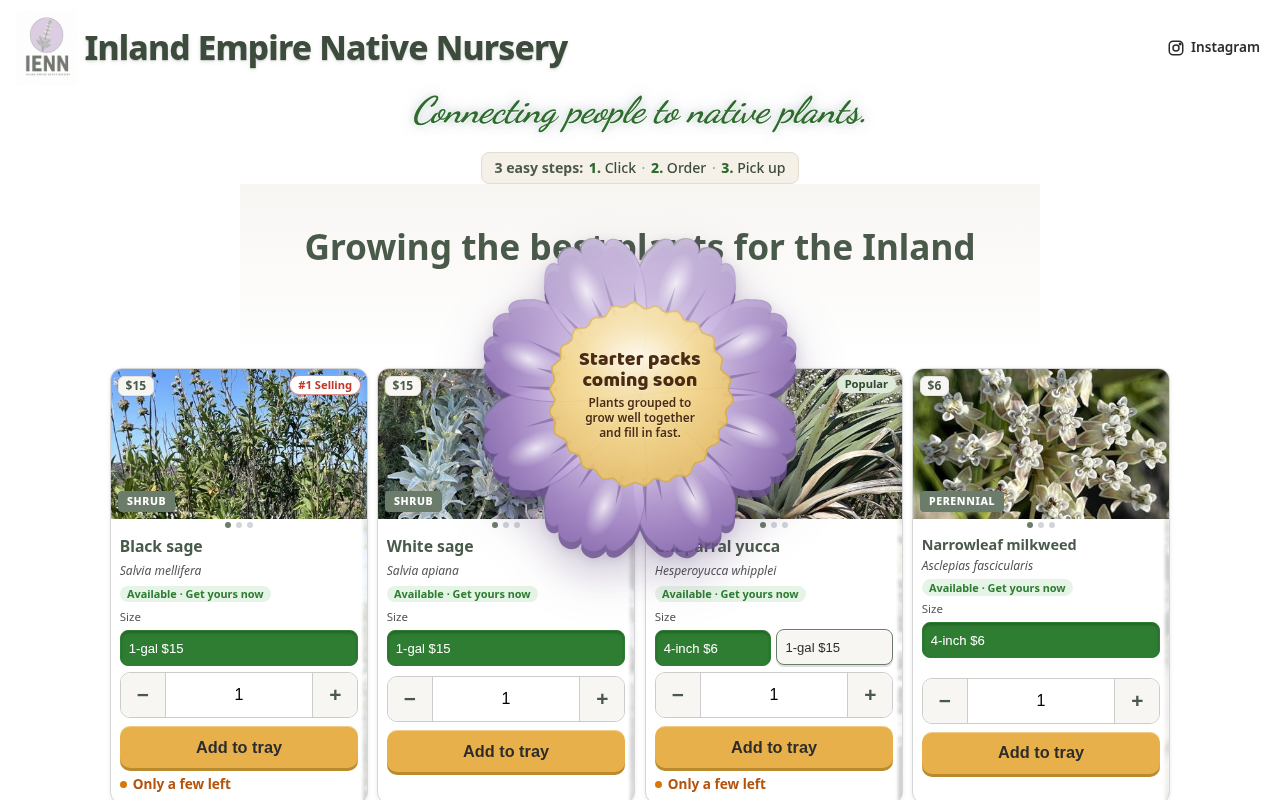
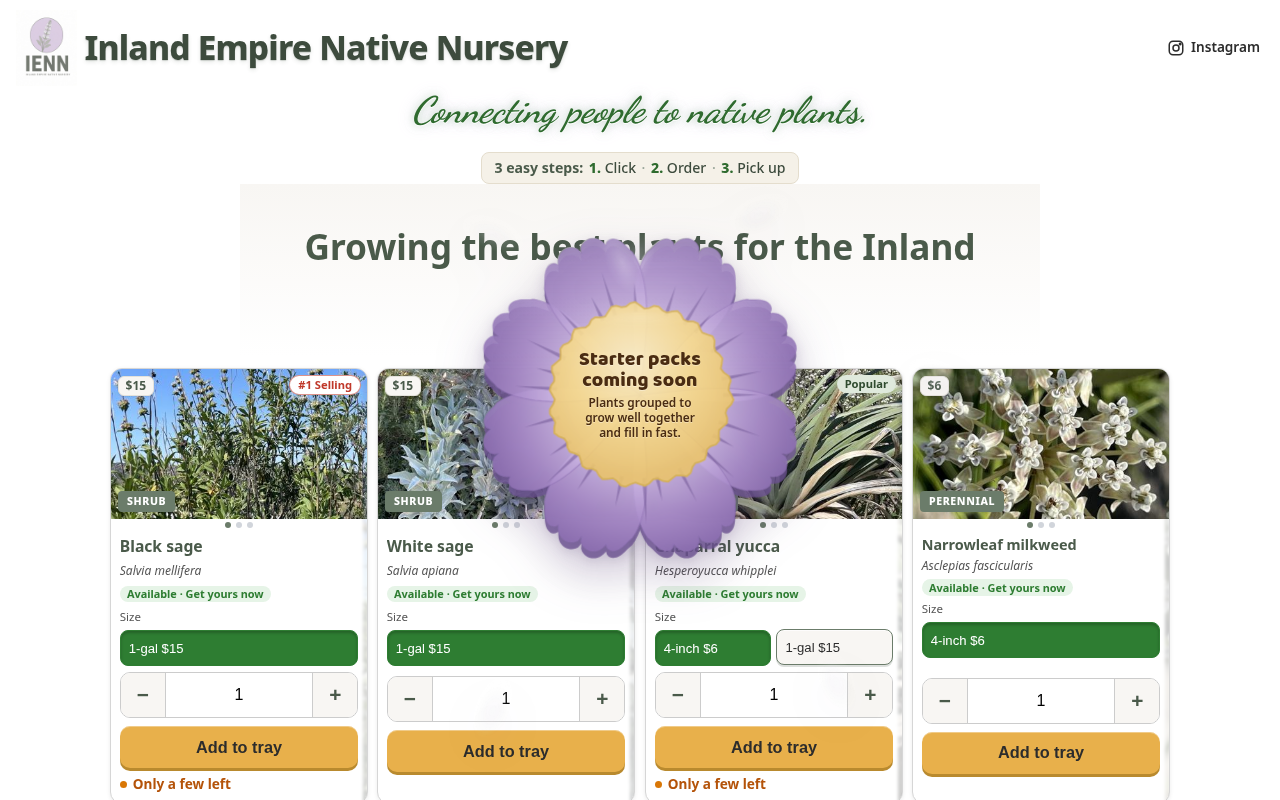
Aster: clean disk behind text (petals start under the rim, even lilac underlay)

diff --git a/teaser.js b/teaser.js
@@ -36,10 +36,11 @@
     function f1(v) { return v.toFixed(1); }
     function poly(pts) { return "M " + pts.map(function (q) { return f1(q[0]) + "," + f1(q[1]); }).join(" L ") + " Z"; }
     for (k = 0; k < 8; k++) {
-      var c = k * Math.PI / 4 + Math.PI / 8, pts = [[0, 0]];
+      var c = k * Math.PI / 4 + Math.PI / 8, pts = [];
       for (i = 0; i <= 96; i++) {
         var u = -1 + 2 * i / 96, r = R * Math.pow(1 - Math.pow(Math.abs(u), 3.2), 0.42), v = u / 0.66;
         if (Math.abs(v) < 1) r -= 14 * (1 - Math.pow(Math.abs(Math.sin(Math.PI * 2 * (v + 1))), 0.45)) * (1 - Math.pow(Math.abs(v), 6));   // 4 scallops across the tip
+        r = Math.max(r, 92);   // petals start under the disk rim, so no petal lines show through the text
         var a = c + u * HW; pts.push([r * Math.sin(a), -r * Math.cos(a)]);
       }
       var D = 66 + 10 * ((k * 5) % 3), pop = "--px:" + f1(D * Math.sin(c)) + "px;--py:" + f1(-D * Math.cos(c)) + "px;--pr:" + (k % 2 ? 14 : -12) + "deg";   // pop: fly out along its own angle
@@ -53,6 +54,7 @@
     }
     var dp = [];
     for (i = 0; i < 120; i++) { var t = 2 * Math.PI * i / 120, rr = 112 + 3.2 * Math.sin(26 * t) + 1.6 * Math.sin(7 * t + 1) + 1.2 * Math.sin(11 * t + 2.2); dp.push([rr * Math.cos(t), rr * Math.sin(t)]); }
+    parts.push(["under", "0,0,104"]);   // even lilac under the disk, so nothing (petal seams, page) shows through behind the text
     parts.push(["disk", poly(dp)]);
     parts.push(["dome", "0,-97,66,13,0"]);   // very faint top-edge glow on the disk, clear of the text
     return { parts: parts, text: [-94, -82, 188, 164], vb: [-213, -213, 426, 438], w: 340, juicy: true, frost: true };
@@ -60,6 +62,7 @@
   function flowerSVG(f) {
     var NS = 'xmlns="http://www.w3.org/2000/svg"', vb = f.vb, out = [], clip = [], sil = [];
     function el(kind, g, cls) {
+      if (kind === "under") kind = "circle";
       if (kind === "circle" || kind === "anther") { var c = g.split(","); return '<circle class="' + cls + '" cx="' + c[0] + '" cy="' + c[1] + '" r="' + c[2] + '"/>'; }
       if (kind === "plate") { var r = g.split(","); return '<rect class="' + cls + '" x="' + r[0] + '" y="' + r[1] + '" width="' + r[2] + '" height="' + r[3] + '" rx="' + r[4] + '"/>'; }
       if (kind === "sheen" || kind === "dome") kind = "ellipse";
@@ -68,9 +71,9 @@
     }
     var edge = [], face = [];
     f.parts.forEach(function (p) {
-      var k = p[0], fill = k === "stamen" ? "fl-stamen" : k === "calyx" ? "fl-calyx" : k === "sepal" ? "fl-sepal" : k === "circle" || k === "plate" ? "fl-center" : k === "disk" ? "fl-disk" : k === "sheen" ? "fl-sheen" : k === "dome" ? "fl-dome" : k === "mark" ? "fl-mark" : k === "anther" ? "fl-anther" : "fl-petal";
+      var k = p[0], fill = k === "stamen" ? "fl-stamen" : k === "calyx" ? "fl-calyx" : k === "sepal" ? "fl-sepal" : k === "circle" || k === "plate" ? "fl-center" : k === "disk" ? "fl-disk" : k === "under" ? "fl-under" : k === "sheen" ? "fl-sheen" : k === "dome" ? "fl-dome" : k === "mark" ? "fl-mark" : k === "anther" ? "fl-anther" : "fl-petal";
       var tag = function (s) { return s.replace(/^<(\w+) class="([^"]*)"/, '<$1 class="$2 k-' + k + '"' + (p[2] ? ' style="' + p[2] + '"' : "")); };
-      if (k !== "mark" && k !== "sheen" && k !== "dome") edge.push(tag(el(k, p[1], k === "stamen" ? "fl-edge-s" : "fl-edge")));
+      if (k !== "mark" && k !== "sheen" && k !== "dome" && k !== "under") edge.push(tag(el(k, p[1], k === "stamen" ? "fl-edge-s" : "fl-edge")));
       face.push(tag(el(k, p[1], fill)));
       if (k === "petal" || k === "ellipse" || k === "circle" || k === "sepal" || k === "disk") clip.push(el(k, p[1], ""));
       if (k !== "mark" && k !== "stamen" && k !== "anther" && k !== "sheen" && k !== "dome") sil.push(el(k, p[1], "").replace('class=""', 'fill="#000"'));

diff --git a/index.html b/index.html
@@ -191,6 +191,8 @@
     .st-shape-aster .st-sub { font-size:0.74rem; font-weight:600; }
     /* Aster: toned-down whites (Eric): faint sheens, faint top-edge glow on the disk, and the shared top gloss kept off the text. */
     .st-shape-aster .fl-dome { opacity:.45; }
+    .st-shape-aster .fl-under { fill:var(--st-mid); fill-opacity:.88; }
+    .st-juicy.pop .k-under { opacity:0; transition:opacity .12s linear; }
     .st-shape-aster .st-face > rect { opacity:.3; }
     /* Pop on dismiss (tap/click/Escape): squish ~90ms, then petals fly out + spin + shrink, disk swells 1.15 and fades, confetti drifts out. ~550ms. */
     .st-juicy .st-flower path, .st-juicy .st-flower ellipse { transform-box:fill-box; transform-origin:center; }
